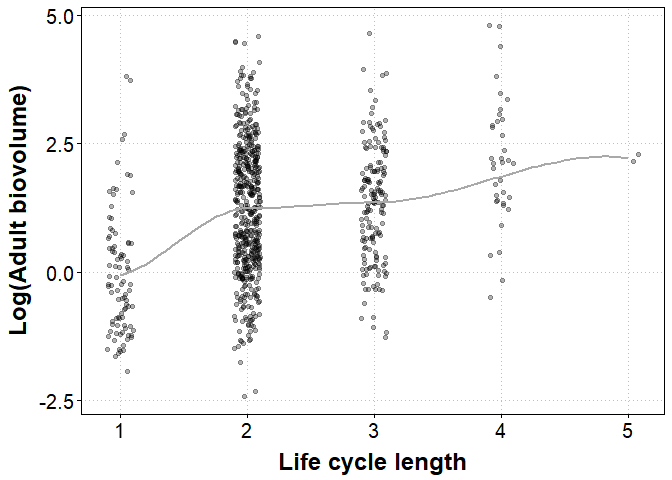
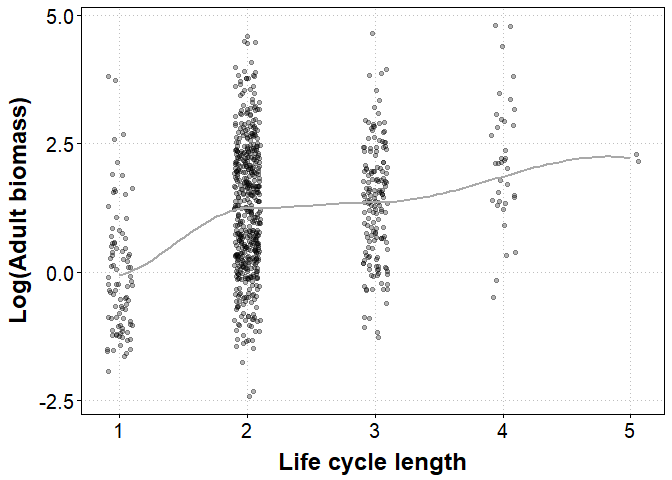
re-knit the github md file

diff --git a/adult_size_lcl.md b/adult_size_lcl.md
@@ -72,7 +72,7 @@ ggplot(data = dataL.sp,
        aes(x = maxLCL, y = log10(Biovolume))) +
   geom_point(alpha = 0.3, position = position_jitter(height = 0, width = 0.1)) +
   geom_smooth(se = F, color = 'darkgrey') +
-  labs(y="Log(Adult biovolume)\n", x="\nLife cycle length") 
+  labs(y="Log(Adult biomass)\n", x="\nLife cycle length") 
 ```
 
 ![](adult_size_lcl_files/figure-markdown_github/unnamed-chunk-6-1.png)
@@ -118,11 +118,15 @@ ggplot(data = dataL.sp,
        aes(x = maxLCL.fac, y = log10(Biovolume))) + 
   geom_boxplot(outlier.color = "white", width = 0.9) +
   geom_jitter(width = 0.2, color = "red", alpha = 0.2) +
-  labs(y="Log(Adult biovolume)\n", x="\nLife cycle length") + 
+  labs(y="Log(Adult biomass)\n", x="\nLife cycle length") + 
   theme(panel.grid.major.x = element_blank())
 ```
 
 ![](adult_size_lcl_files/figure-markdown_github/unnamed-chunk-8-1.png)
+
+``` r
+# export at 500 x 450 px
+```
 
 Because of this non-linear pattern, a model treating life cycle length as a categorical variable instead of a continuous one is an improvement. Still, the explained variance only increases from 9 to 13%, so there is substantial variation in adult helminth size that is unrelated to life cycle length.
 
@@ -194,7 +198,7 @@ ggplot(dataL.sp,
 
 A predicted benefit of long life cycles is that these parasites reach large definitive hosts, where they themselves can grow to large, fecund sizes. These assumptions need to be re-evaluated. Many parasites with short cycles reproduce in large definitive hosts, and many parasites in large hosts have small reproductive sizes. Consequently, there is not a strong relationship between life cycle length and eventual worm reproductive size.
 
-[Benesh et al. (2014)](LINK!!!!!!!) found that nematodes reproducing in high trophic level hosts have longer life cycles on average. In that paper, we argued that high trophic level hosts (top predators) are usually large, and thus may support parasites growing to a large size. In food webs, there is a correlation between body size and trophic level. But does this also apply to the definitive hosts of helminths? In other words, is it valid to assume that high trophic level hosts are also big ones? Let's import the trophic level data from that study. Trophic levels are only available for a fraction of the parasites, as the Benesh et al. 2014 was restricted to nematodes.
+[Benesh et al. (2014)](http://rspb.royalsocietypublishing.org/content/suppl/2014/09/09/rspb.2014.1462.DC1.html%20) found that nematodes reproducing in high trophic level hosts have longer life cycles on average. In that paper, we argued that high trophic level hosts (top predators) are usually large, and thus may support parasites growing to a large size. In food webs, there is a correlation between body size and trophic level. But does this also apply to the definitive hosts of helminths? In other words, is it valid to assume that high trophic level hosts are also big ones? Let's import the trophic level data from that study. Trophic levels are only available for a fraction of the parasites, as the Benesh et al. 2014 was restricted to nematodes.
 
 ``` r
 # trophic level data from my tropic vacuum study
@@ -313,4 +317,4 @@ subset(model.set, cumsum(weight) <= .95) # 95% ci set
     ## 40  8 -400.047 816.7  5.26  0.020
     ## Models ranked by AICc(x)
 
-All of the top models include life cycle length (as either a continuous or categorical variable), and they may or may not contain host mass and trophic level. This suggests that life cycle length explains variation in nematode size that is not explained by the def host attributes. Perhaps long life cycles just give parasites more opportunity to grow (i.e. a little in each host). However, even in the 'global model', which is obviously overfit, only 13% of the variation in adult parasite size is explained. Maybe other factors like definitive host immunity, interspecific competition, and phylogenetic constraints strongly shape adult parasite size. In any case, a large, high-trophic level final host does not seem to come with the benefit of a larger body size.
+All of the top models include life cycle length (as either a continuous or categorical variable), and they may or may not contain host mass and trophic level. This suggests that life cycle length explains variation in nematode size that is not explained by the def host attributes. Perhaps long life cycles just give parasites more opportunity to grow (i.e. a little in each host). However, even in the 'global model', which is obviously overfit, only 13% of the variation in adult parasite size is explained. Maybe other factors like definitive host immunity, interspecific competition, or phylogenetic constraints strongly shape adult parasite size. In any case, a large, high-trophic level final host does not seem to come with the benefit of a larger body size for helminths.
